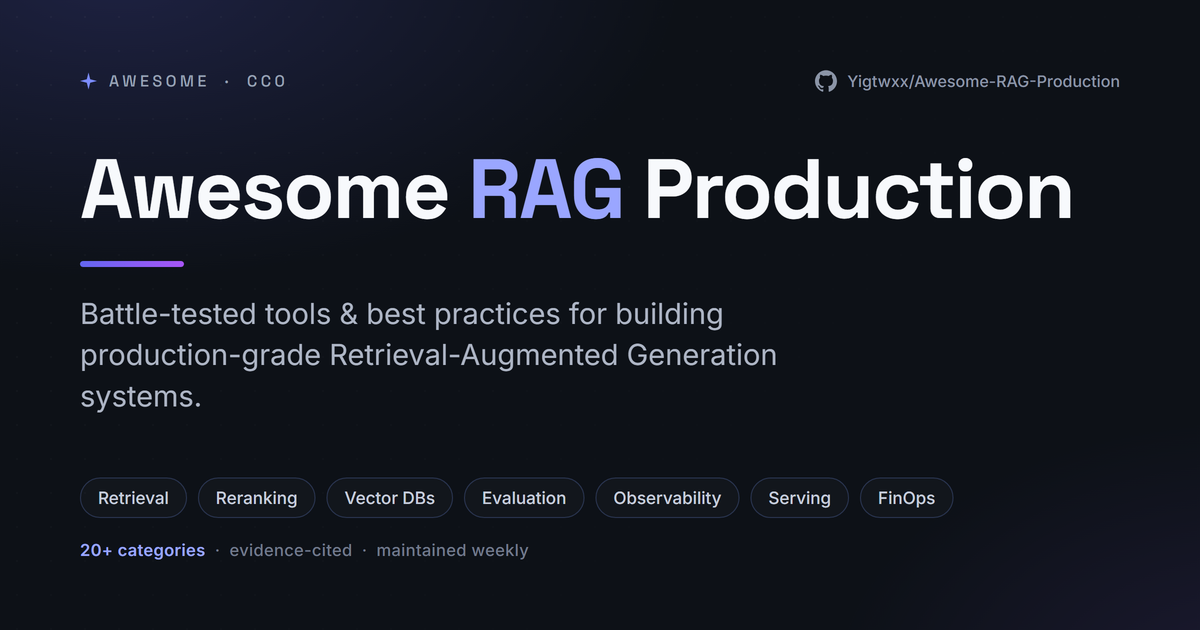
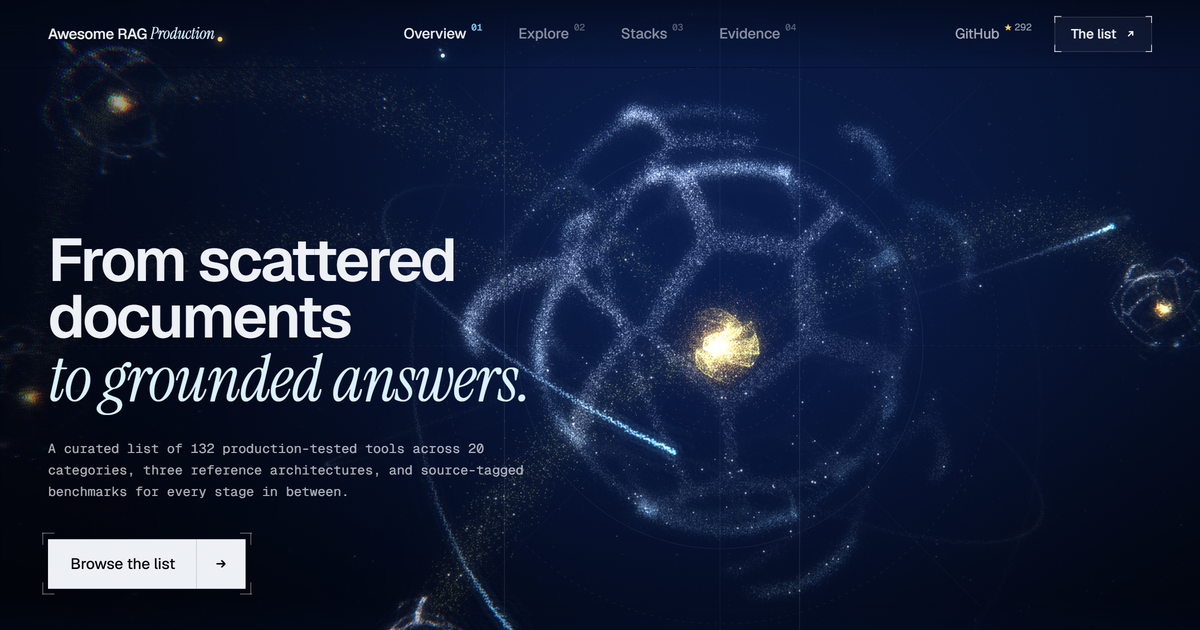
chore(site): link the site from the README and refresh og.png (#133)
Points GitHub visitors at the site (README line and badge), replaces the
outdated social card with the live hero, and holds TypeScript majors in
Dependabot until @astrojs/check accepts TypeScript 7.

Claude-Session: https://claude.ai/code/session_01BW1DAAckzcLEW8ndW8eK6X

diff --git a/README.md b/README.md
@@ -2,7 +2,11 @@
 
 > A curated collection of battle-tested tools, frameworks, and best practices for building, scaling, and monitoring production-grade Retrieval-Augmented Generation (RAG) systems.
 
+**Website:** [yigtwxx.github.io/awesome-rag-production](https://yigtwxx.github.io/awesome-rag-production/) —
+search the whole catalog, compare the reference stacks side by side, and browse every source-tagged claim.
+
 [![Awesome](https://awesome.re/badge.svg)](https://github.com/sindresorhus/awesome)
+[![Website](https://img.shields.io/badge/Website-live-7fd3ff?style=flat-square&logo=githubpages&logoColor=white)](https://yigtwxx.github.io/awesome-rag-production/)
 [![License: CC0-1.0](https://img.shields.io/badge/License-CC0_1.0-lightgrey.svg)](https://creativecommons.org/publicdomain/zero/1.0/)
 [![PRs Welcome](https://img.shields.io/badge/PRs-welcome-brightgreen.svg?style=flat-square)](https://makeapullrequest.com)
 [![GitHub Stars](https://img.shields.io/github/stars/Yigtwxx/Awesome-RAG-Production?style=flat-square&logo=github&label=Stars)](https://github.com/Yigtwxx/Awesome-RAG-Production/stargazers)
